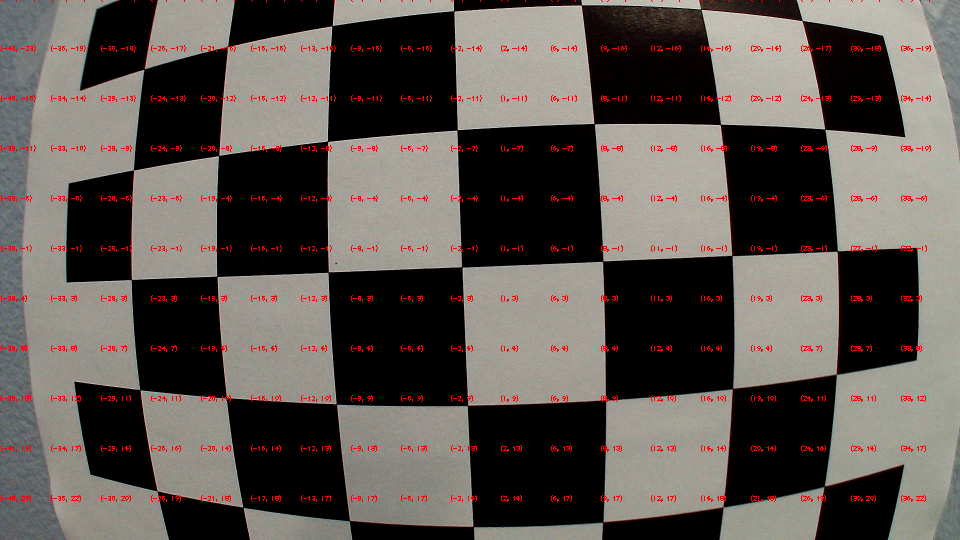
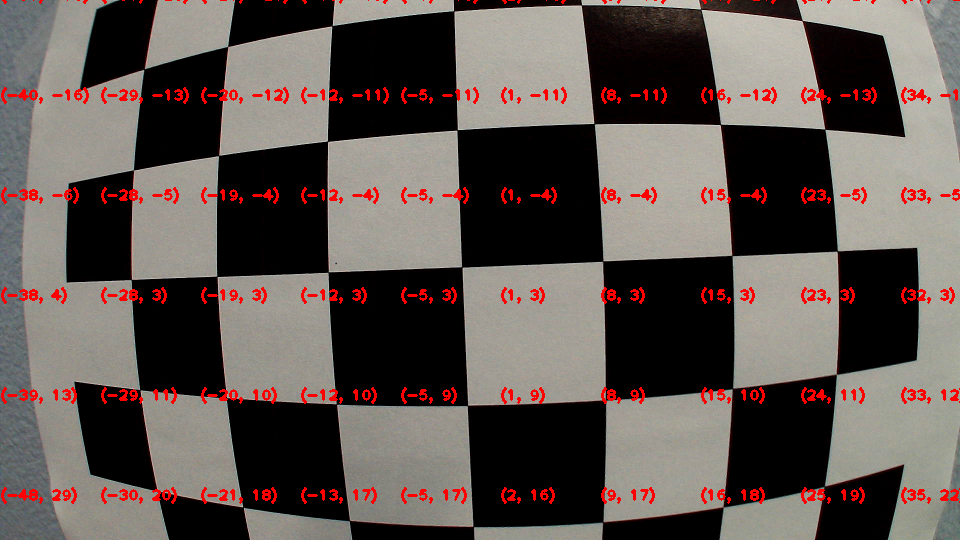
-regenerated calibration visulaization

diff --git a/software/Calibration_Codes_Images/label_image_with_angle_coords.py b/software/Calibration_Codes_Images/label_image_with_angle_coords.py
@@ -15,15 +15,15 @@ font = cv2.FONT_HERSHEY_PLAIN
 font_color = (0, 0, 255)  # BGR color (e.g., red is (0, 0, 255))
 
 # Calculate the font thickness (optional)
-font_thickness = 1
+font_thickness = 2
 
 # Calculate the font scale based on font size
-font_scale = 0.4
+font_scale = 1
 
 
 texts_to_write = []
-for x in range (0, 940, 50):
-    for y in range(0, 520, 50):
+for x in range (0, 940, 100):
+    for y in range(0, 520, 100):
         image = cv2.putText(image, ('('+str(round(degree_matrix[y, x, 0])) + ', '+str(round(degree_matrix[y, x, 1])) +')'), (x, y), font, font_scale, font_color, font_thickness)
 
 # Save or display the image with text

diff --git a/software/Calibration_Codes_Images/calibration_degrees_matrix_visualize.py b/software/Calibration_Codes_Images/calibration_degrees_matrix_visualize.py
@@ -34,6 +34,6 @@ for j in range(10, image_width, 25):  # Adjust the step size to your preference
 ax.invert_yaxis()
 
 # Hide the axes
-ax.axis('off')
+ax.axis('on')
 
 plt.show()
